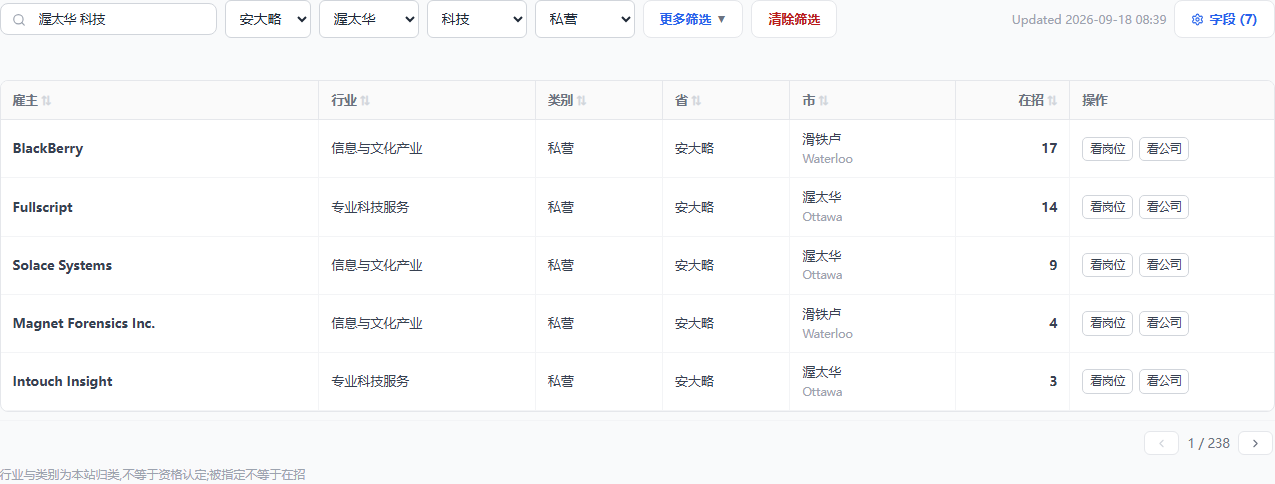
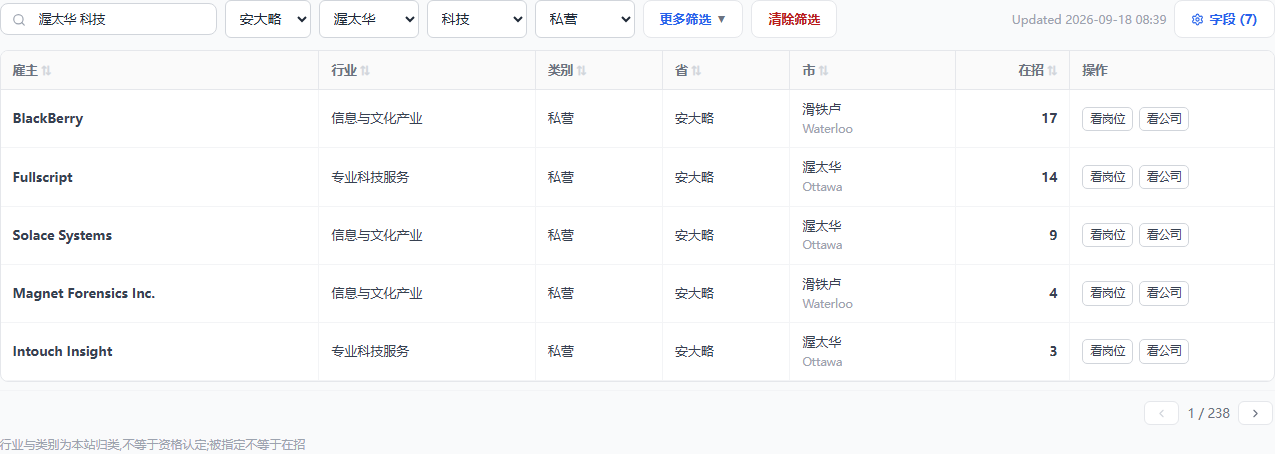
docs(design): 雇主板筛选行与表壳间距收到 12px,加载条不占高(Frank「筛选和表格的缝隙太大了吧」)[skip render]

diff --git a/docs/design/雇主分类与搜索-20260918.md b/docs/design/雇主分类与搜索-20260918.md
@@ -64,7 +64,7 @@
 - 「更多筛选」折叠区放经验(经验不限 / 无经验可投)与 LMIA(LMIA 不限 / 办过 LMIA / 连续办 LMIA)两个下拉,钮形照职位板(secondary + 三角)。**整行全是下拉与钮,不用胶囊开关**(Frank「这种也设计成下拉框?」)。
 - **不出已选胶囊行**(Frank「这种胶囊的也去掉吧」):搜索认出的维度直接落进对应下拉框显示,改下拉即改筛选。
 - ≤640 手机:搜索 + 省 + 城市露出,行业、类别与折叠区两项全进「更多筛选」。
-- **外框也照职位板**(Frank「也改成职位板那样」):筛选行直接铺在页面灰底上,表格单独一个带边框的白壳;08-27 换装批「筛选行与表包在同一张白卡里」的形撤。翻页与口径注在壳外。
+- **外框也照职位板**(Frank「也改成职位板那样」):筛选行直接铺在页面灰底上,表格单独一个带边框的白壳;08-27 换装批「筛选行与表包在同一张白卡里」的形撤。翻页与口径注在壳外。**筛选行与表壳间距 12px**(2026-09-18 Frank「筛选和表格的缝隙太大了吧」:现状 30px = 筛选区下边距 12 + 占位 18 的加载条;加载条改成叠在表壳顶边的细条,不占高度)。
 
 ### 搜索:跨列多词(照职位板搜索机器)
 
